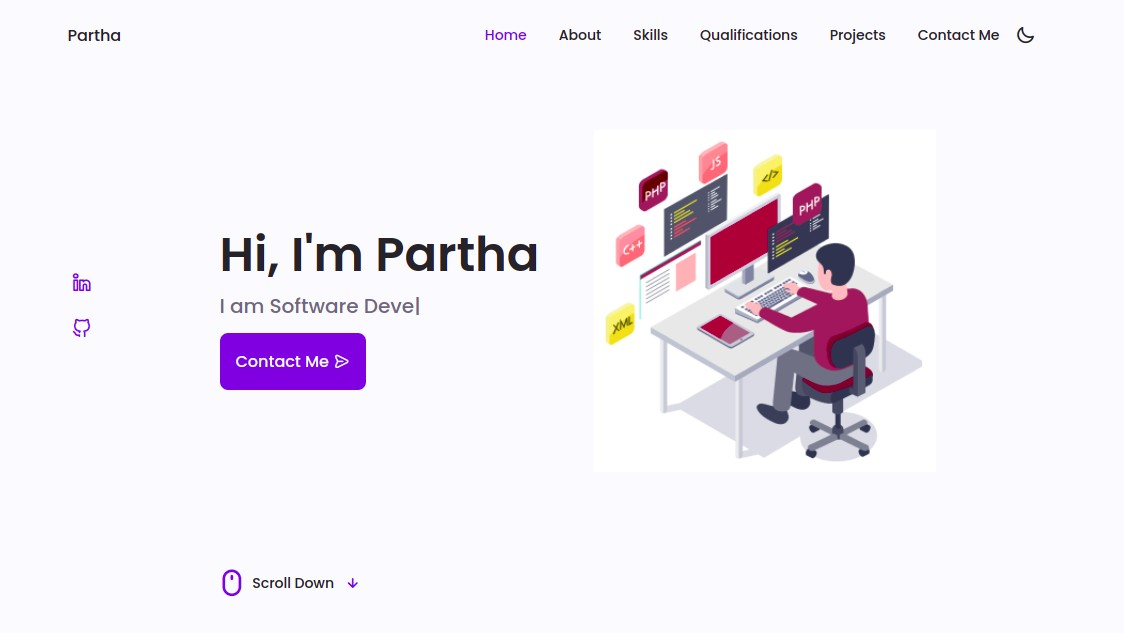
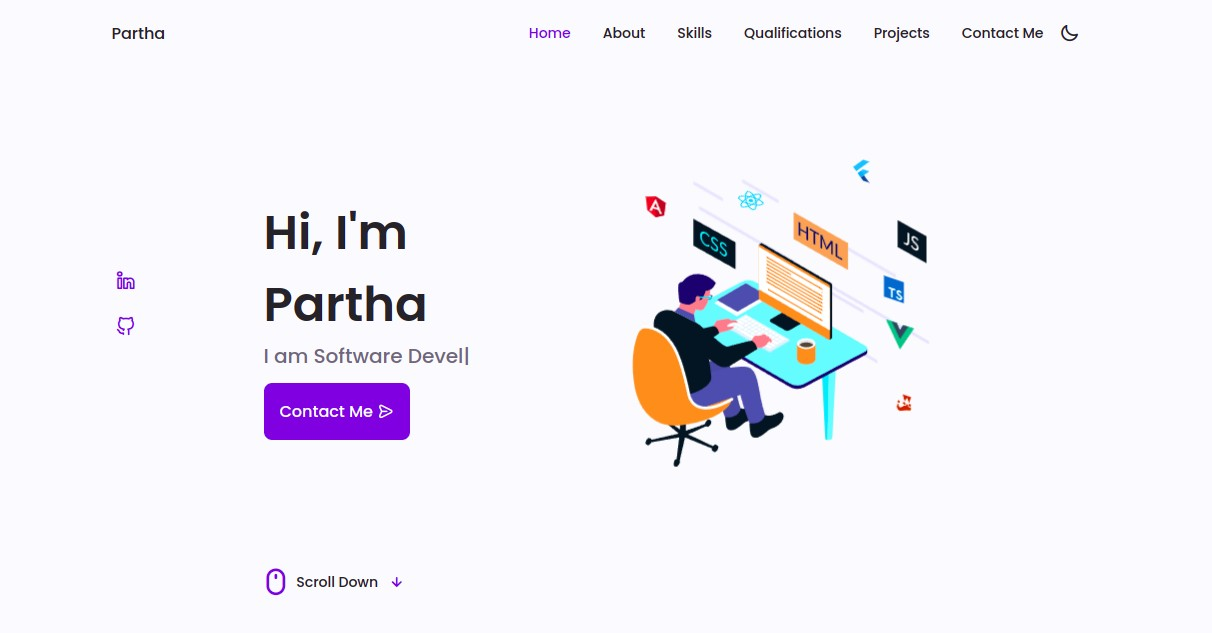
update

diff --git a/index.html b/index.html
@@ -81,20 +81,24 @@
     <!-- Home -->
     <section class="home section" id="home">
       <div class="home_container container grid">
-        <div class="home_content grid" style="padding-top:3.5rem!important;">
+        <div class="home_content grid">
           <div class="home_social">
             <a href="https://www.linkedin.com/in/partha-saha-52446216b/" class="home_social-icon" target="_blank">
-              <i class="uil uil-linkedin-alt"></i>
+              <span class="iconify" data-icon="fa:linkedin-square" style="color: #66f;"></span>
             </a>
             <a href="https://github.com/partha99saha" class="home_social-icon" target="_blank">
-              <i class="uil uil-github-alt"></i>
+              <span class="iconify" data-icon="fa:github-square" style="color: #66f;"></span>
+            </a>
+            <a href="mailto:psaha.bdn9@gmail.com" class="home_social-icon" target="_blank">
+              <span class="iconify-inline" data-icon="mdi:gmail" style="color: #66f;"></span>
             </a>
           </div>
           <div class="home_img">
-            <!-- <img src="./assets/img/code.gif"> -->
-            <img src="./assets/img/coding.gif">
+            <script src="https://unpkg.com/@lottiefiles/lottie-player@latest/dist/lottie-player.js"></script>
+            <lottie-player src="https://assets7.lottiefiles.com/private_files/lf30_obidsi0t.json"
+              background="transparent" speed="1.2" style="width: 400px; height: 350px;" loop autoplay></lottie-player>
           </div>
-          <div class="home_data" style="padding-top:60px!important">
+          <div class="home_data" style="padding-top:30px!important">
             <h1 class="home_title">Hi, I'm Partha</h1>
             <h3 class="home_subtitle">I am <span class="type"></span> </h3>
             <a href="#contact" class="button button--flex">
@@ -114,18 +118,19 @@
     </section>
 
     <!-- About -->
-    <section class="about section" style="padding-top:10rem;" id="about">
+    <section class="about section" style="padding-top:7rem;" id="about">
       <h2 class="section_title">About Me</h2>
       <span class="section_subtitle">My introduction</span>
       <div class="about_container container grid">
         <img src="./assets/img/partha.jpg" alt="" class="about_img" />
         <div class="about_data">
           <p class="about_description">
-            Hi! 👋 I'm Partha, I have completed BTech in Electronics and Communication.
+            Hi! 👋 &nbsp; I'm Partha, I have completed B.Tech in Electronics and Communication.
             I am passionate self-learner,exploring and building projects 👨💻 using
             various technologies.I am a Software developer well versed in
             JavaScript,TypeScript,NodeJS,and Angular.
           </p>
+          <br><br>
           <div class="about_button">
             <a download="" href="./assets/pdf/parthaSaha-resume.pdf" class="button button--flex">
               Resume<i class="uil uil-file-download-alt button_icon"></i>
@@ -242,7 +247,7 @@
               <div class="skills_bar"></div>
             </div>
           </div>
-
+       
           <!-- Skill Set 2 -->
           <div class="skill skills_content">
             <div class="skills_header">
@@ -729,6 +734,9 @@
           <a href="https://github.com/partha99saha" class="footer_social" target="_blank">
             <i class="uil uil-github-alt"></i>
           </a>
+          <a href="mailto:psaha.bdn9@gmail.com" class="footer_social" target="_blank">
+            <span class="iconify-inline" data-icon="cib:gmail" style="color: white;"></span>
+          </a>
         </div>
       </div>
       <p class="footer_copy">&#169; Partha Saha. @ All rights reserved</p>
@@ -737,12 +745,11 @@
 
   <!-- Scroll Top -->
   <a href="#" class="scrollup" id="scroll-up">
-    <i class="uil uil-arrow-up scrollup_icon"></i>
+    <span class="iconify" data-icon="bx:up-arrow-circle" 
+    style="color: #f9f9f9;" data-width="30" data-height="35"></span>
   </a>
 
-  <!-- Swiper JS -->
   <script src="./assets/js/swiper-bundle.min.js"></script>
-  <!-- Typed JS -->
   <script src="./assets/js/typed.js"></script>
   <script src="https://code.iconify.design/2/2.2.1/iconify.min.js"></script>
   <script src="./assets/js/main.js"></script>

diff --git a/assets/js/main.js b/assets/js/main.js
@@ -80,8 +80,8 @@ let education = document.getElementById("education");
 let work = document.getElementById("work");
 let educationheader = document.getElementById("educationheader");
 let workheader = document.getElementById("workheader");
-workheader.style.color = "var(--first-color)";
-educationheader.style.color = "var(--text-color)";
+workheader.style.color = "var(--text-color)";
+educationheader.style.color = "var(--first-color)";
 
 educationheader.addEventListener("click", () => {
   let condition1 = work.classList.contains("qualification-inactive");
@@ -195,7 +195,7 @@ themeButton.addEventListener("click", () => {
 
 // Typing Animation using Typed JS
 var typed = new Typed(".type", {
-  strings: [" Software Developer", " tech Enthusiast", " a programmer"],
+  strings: [" Software Developer", " Tech Enthusiast", " a Programmer"],
   smartBackspace: true,
   startDelay: 1000,
   typeSpeed: 130,

diff --git a/assets/css/style.css b/assets/css/style.css
@@ -730,7 +730,7 @@ button {
   position: fixed;
   right: 1rem;
   bottom: -20%;
-  background-color: var(--first-color);
+  background-color: #000099;
   opacity: 0.8;
   padding: 0 0.3rem;
   border-radius: 0.4rem;
@@ -739,7 +739,7 @@ button {
 }
 
 .scrollup:hover {
-  background-color: var(--first-color-alt);
+  background-color: #000099;
 }
 
 .scrollup_icon {
